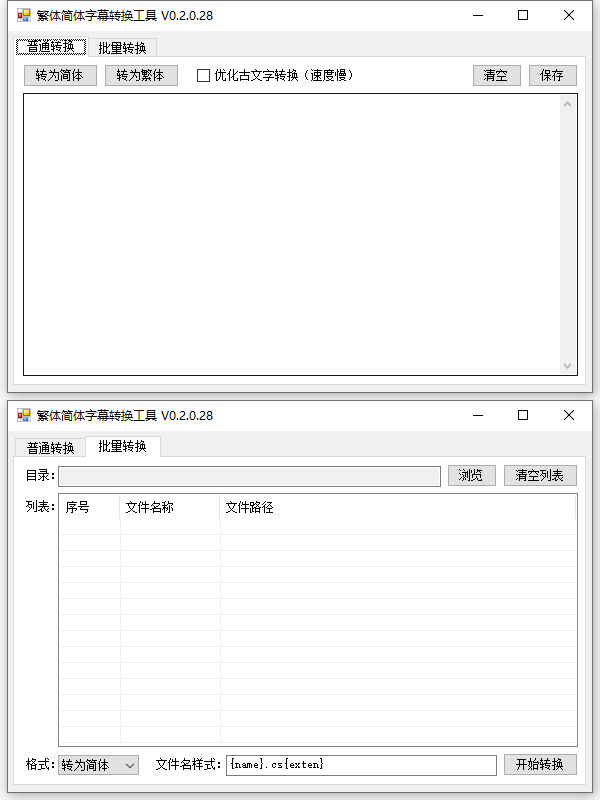
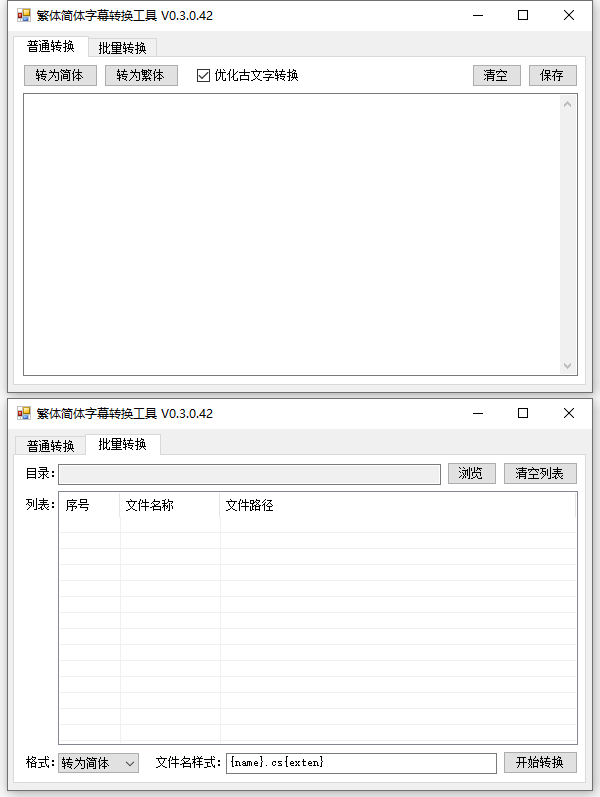
更新软件图片 版本：0.3.0.42

diff --git a/ChineseSubtitleConversionTool/Properties/AssemblyInfo.cs b/ChineseSubtitleConversionTool/Properties/AssemblyInfo.cs
@@ -32,5 +32,5 @@ using System.Runtime.InteropServices;
 // 可以指定所有值，也可以使用以下所示的 "*" 预置版本号和修订号
 // 方法是按如下所示使用“*”: :
 // [assembly: AssemblyVersion("1.0.*")]
-[assembly: AssemblyVersion("0.3.0.41")]
-[assembly: AssemblyFileVersion("0.3.0.41")]
+[assembly: AssemblyVersion("0.3.0.42")]
+[assembly: AssemblyFileVersion("0.3.0.42")]
